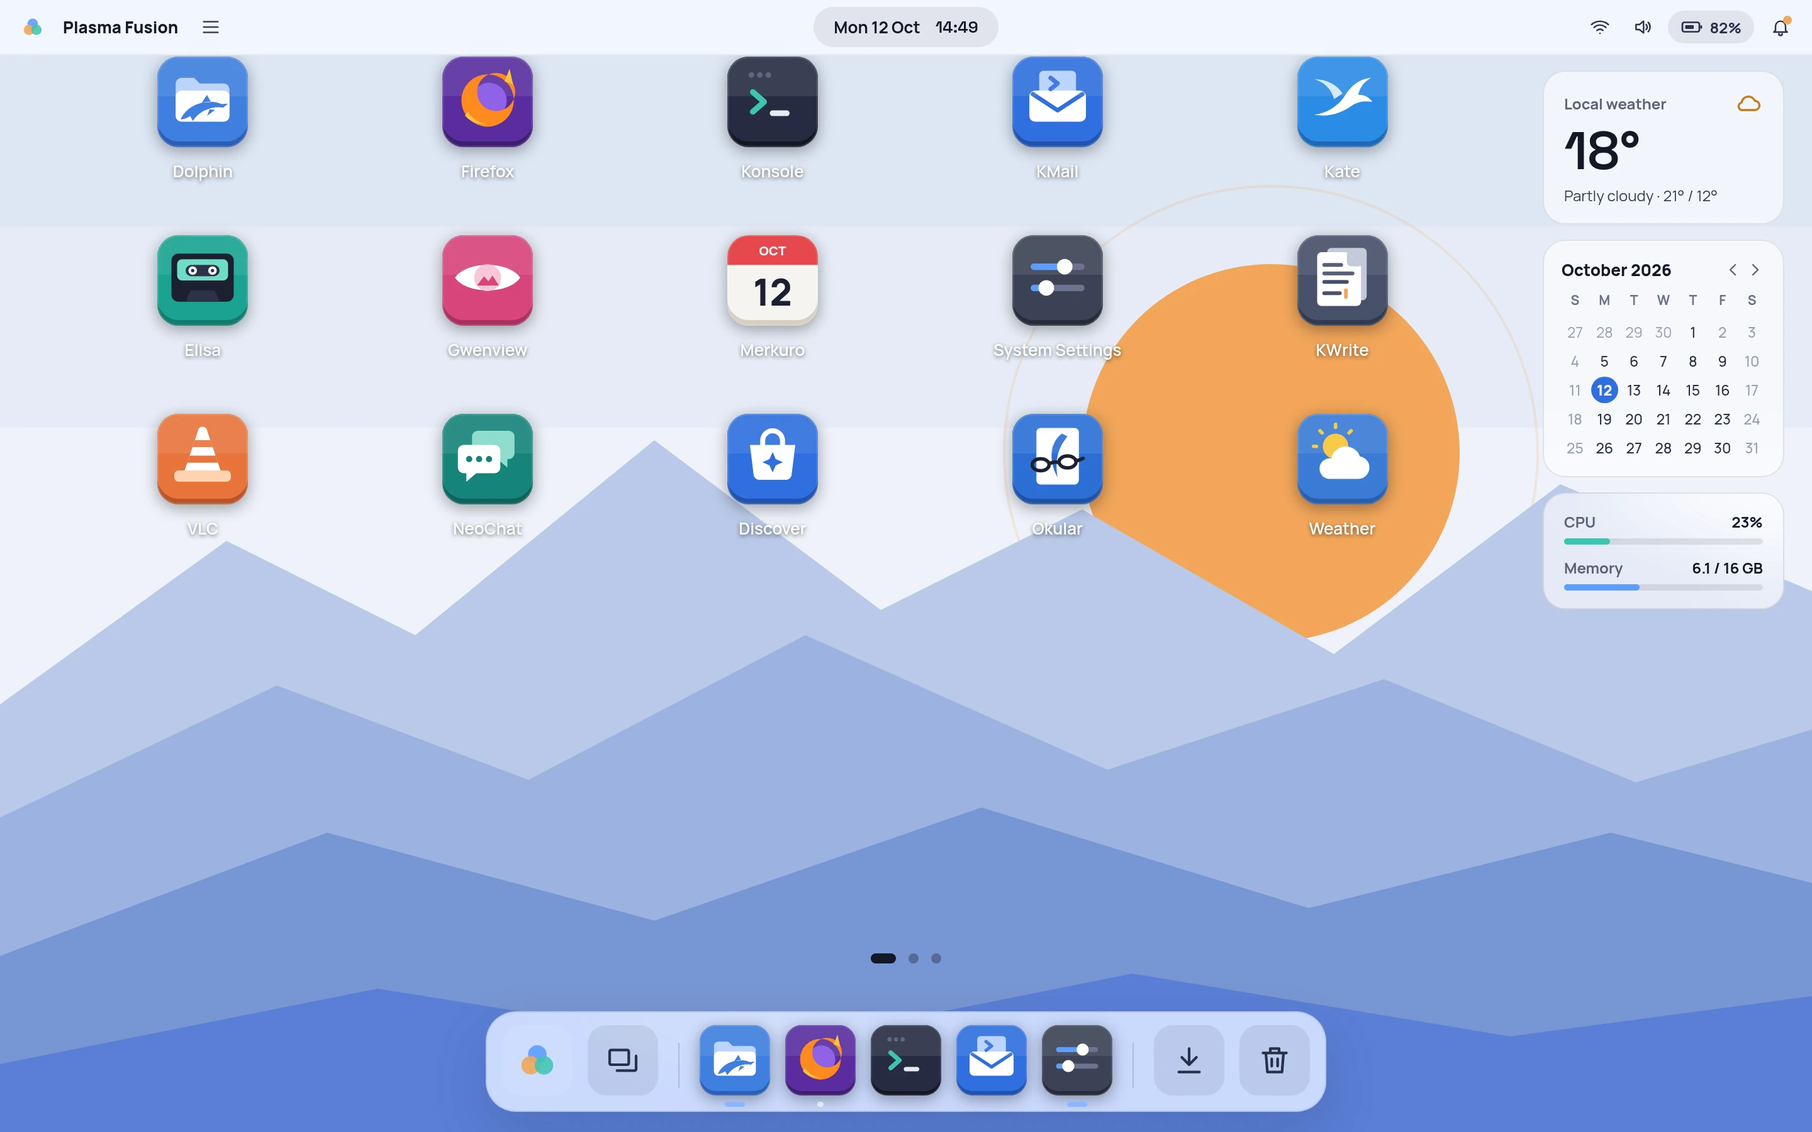
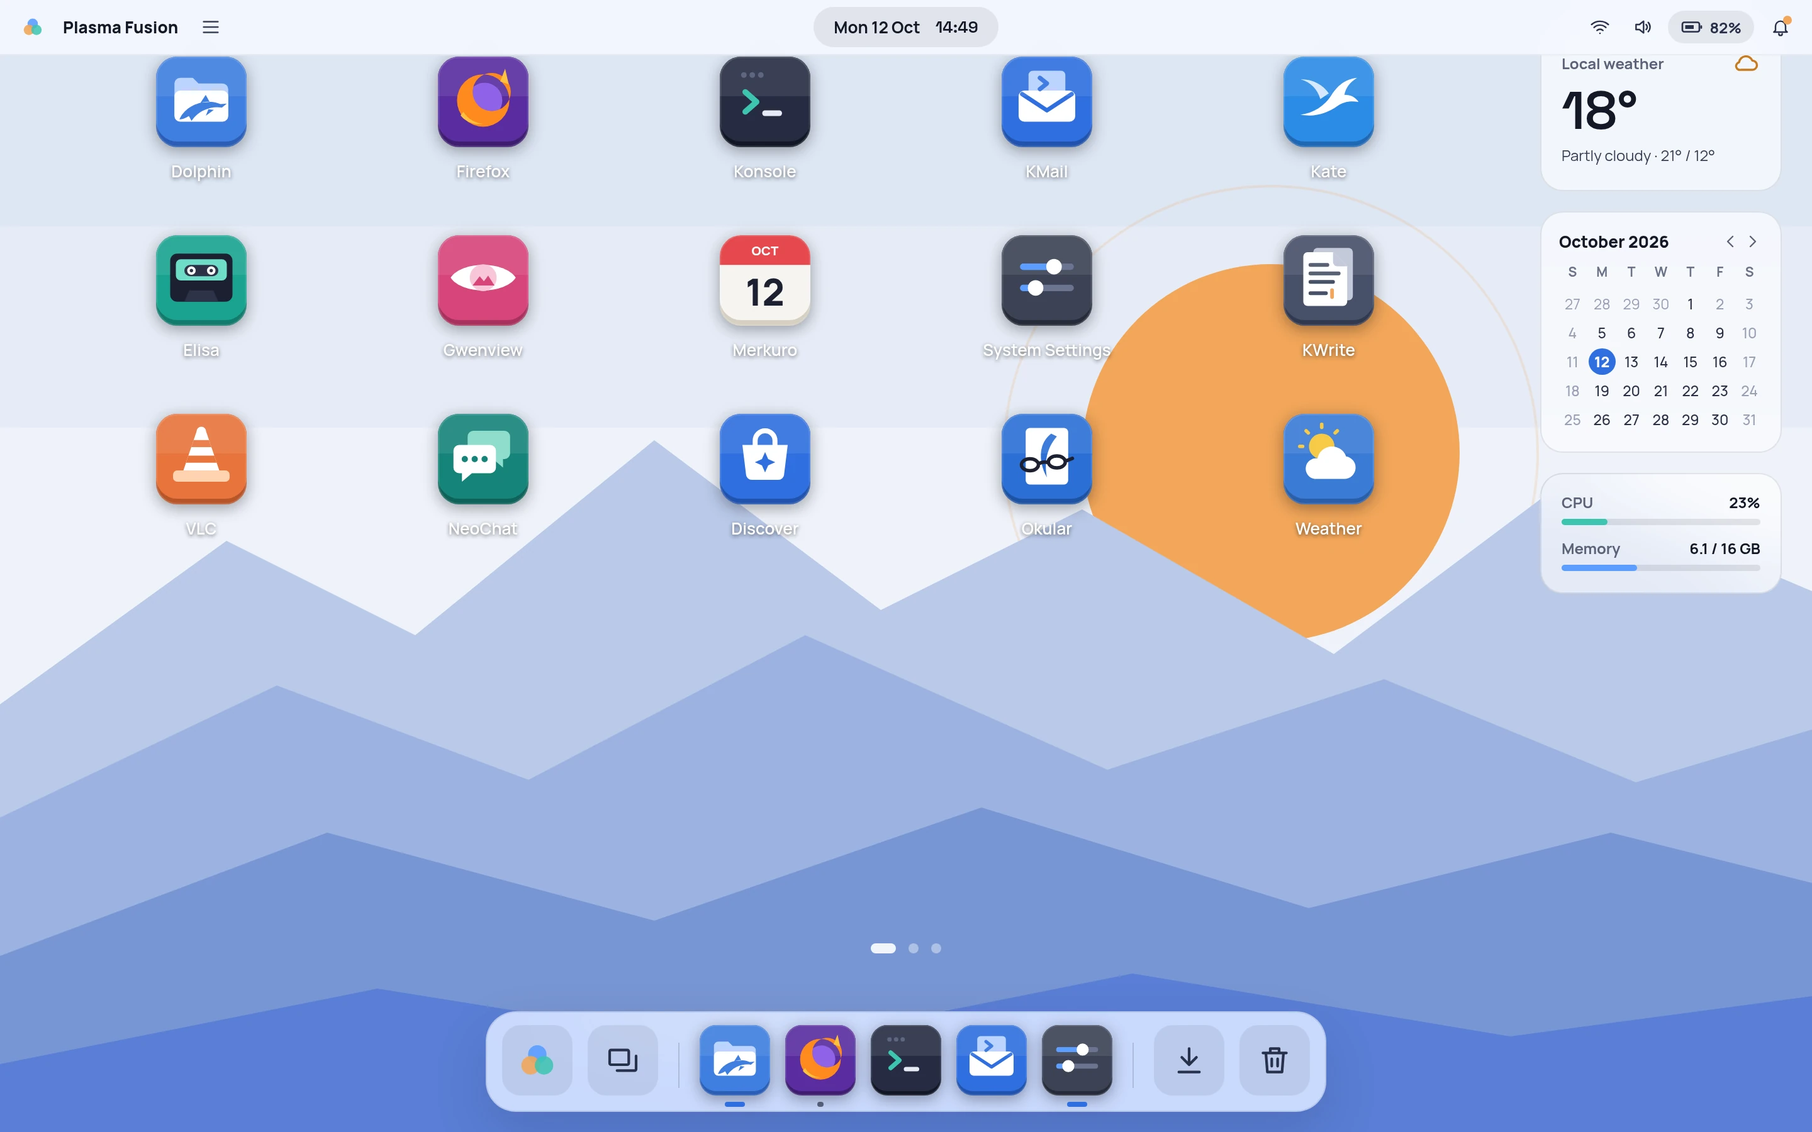
Design: the tablet home matches the implementation's grid, cards and palette
The page-1 grid is five runtime cells of floor((1440 - 96) / 6) = 224 px
(the boards' 1132 px drifted the tile centres right by up to 11 px); the
card column starts 24 px from the top and from the right edge with the
cards' 128 / 192 / 96 px containers 16 px apart (arrangeTabletCards);
the page dots sit at 750 - the 44 px targets centred at 754 - and stay
white at 90 / 40 % in both schemes (HomeLayer.qml); and the light board
uses the light DockPalette: the dark 8 % Start fill, ink running dots and
the #2f6fdf active pills.

Previews re-rendered with design/render/render.py.

diff --git a/design/boards/TabletLight.dc.html b/design/boards/TabletLight.dc.html
@@ -30,7 +30,7 @@ a{color:#2f6fdf}a:hover{color:#2359c4}
 </svg>
 
 <!-- Page 1: the pinned apps (the launcher's list), over the wallpaper -->
-<div aria-label="Home screen, page 1" style="position:absolute;left:48px;top:24px;width:1132px;display:grid;grid-template-columns:repeat(5, minmax(0, 1fr));grid-auto-rows:142px;justify-items:center">
+<div aria-label="Home screen, page 1" style="position:absolute;left:48px;top:24px;width:1120px;display:grid;grid-template-columns:repeat(5, minmax(0, 1fr));grid-auto-rows:142px;justify-items:center">
 
 <div style="display:flex;flex-direction:column;align-items:center;justify-content:center;gap:10px;height:100%">
 <button aria-label="Dolphin" class="tile" style="width:72px;height:72px;border-radius:19px"><svg xmlns="http://www.w3.org/2000/svg" width="72" height="72" viewBox="0 0 64 64"><path d="M15 0h34a15 15 0 0 1 15 15v34a15 15 0 0 1 -15 15h-34a15 15 0 0 1 -15 -15v-34a15 15 0 0 1 15 -15z" fill="#2b5db5"/><path d="M15 0h34a15 15 0 0 1 15 15v30a15 15 0 0 1 -15 15h-34a15 15 0 0 1 -15 -15v-30a15 15 0 0 1 15 -15z" fill="#3f7fe0"/><path d="M15 0h34a15 15 0 0 1 15 15v13H0V15A15 15 0 0 1 15 0z" fill="#ffffff" fill-opacity="0.09"/><path d="M13 19a4 4 0 0 1 4-4h9l4 4h17a4 4 0 0 1 4 4v19H13z" fill="#bcd4ff"/><path fill-rule="evenodd" d="M17 24h30a4 4 0 0 1 4 4v14a4 4 0 0 1 -4 4h-30a4 4 0 0 1 -4 -4v-14a4 4 0 0 1 4 -4z" fill="#ffffff"/><path fill-rule="evenodd" d="M16.5 44.5c3-7 10-11.5 18.5-12.5 4-.4 7.5.3 10.5 1.6l4.5-.4-3.4 2.8c-4.4-.7-9 0-13 2-3.6 1.8-6.5 4.4-8.5 7.4l-1.9-3.4c-2.4 1.5-4.6 2.3-6.7 2.5zM31.5 32.6l3.6-5.6 2.8 5.1zM37 37.2l-1.8 4.6 5.6-4.1z" fill="#3f7fe0"/><path d="M16.5 44.5c3-7 10-11.5 18.5-12.5 4-.4 7.5.3 10.5 1.6l4.5-.4-3.4 2.8c-4.4-.7-9 0-13 2-3.6 1.8-6.5 4.4-8.5 7.4l-1.9-3.4c-2.4 1.5-4.6 2.3-6.7 2.5zM31.5 32.6l3.6-5.6 2.8 5.1zM37 37.2l-1.8 4.6 5.6-4.1z" fill="url(#pf-sheen)" fill-rule="evenodd"/><path d="M15 0.5h34a14.5 14.5 0 0 1 14.5 14.5v34a14.5 14.5 0 0 1 -14.5 14.5h-34a14.5 14.5 0 0 1 -14.5 -14.5v-34a14.5 14.5 0 0 1 14.5 -14.5z" fill="none" stroke="#ffffff" stroke-opacity="0.14" stroke-width="1" stroke-linecap="butt" stroke-linejoin="miter"/></svg></button>
@@ -109,8 +109,8 @@ a{color:#2f6fdf}a:hover{color:#2359c4}
 
 </div>
 <!-- The cards on page 1 (the containment's widgets), in the columns the grid leaves -->
-<div style="position:absolute;left:1226px;top:56px;width:192px;display:flex;flex-direction:column;gap:12px">
-<div aria-label="Weather widget" style="box-sizing:border-box;padding:14px 16px;border-radius:18px;background:rgba(255,255,255,0.62);backdrop-filter:blur(24px);-webkit-backdrop-filter:blur(24px);border:1px solid rgba(20,24,39,0.1);display:flex;flex-direction:column;gap:6px">
+<div style="position:absolute;left:1224px;top:24px;width:192px;display:flex;flex-direction:column;gap:16px">
+<div aria-label="Weather widget" style="height:128px;box-sizing:border-box;padding:14px 16px;border-radius:18px;background:rgba(255,255,255,0.62);backdrop-filter:blur(24px);-webkit-backdrop-filter:blur(24px);border:1px solid rgba(20,24,39,0.1);display:flex;flex-direction:column;gap:6px">
 <div style="display:flex;align-items:center;justify-content:space-between">
 <span style="font-size:12px;font-weight:700;color:#5b6278">Local weather</span>
 <svg class="i" width="22" height="22" viewBox="0 0 24 24" style="color:#c77a1e"><path d="M7 18h10a4 4 0 0 0 0-8a6 6 0 0 0-11.5 1.5A3.3 3.3 0 0 0 7 18z"></path></svg>
@@ -119,7 +119,7 @@ a{color:#2f6fdf}a:hover{color:#2359c4}
 <div style="font-size:12px;color:#3a4157">Partly cloudy · 21° / 12°</div>
 </div>
 
-<div aria-label="Calendar widget" style="box-sizing:border-box;padding:14px 14px 12px;border-radius:18px;background:rgba(255,255,255,0.62);backdrop-filter:blur(24px);-webkit-backdrop-filter:blur(24px);border:1px solid rgba(20,24,39,0.1);display:flex;flex-direction:column;gap:8px">
+<div aria-label="Calendar widget" style="height:192px;box-sizing:border-box;padding:14px 14px 12px;border-radius:18px;background:rgba(255,255,255,0.62);backdrop-filter:blur(24px);-webkit-backdrop-filter:blur(24px);border:1px solid rgba(20,24,39,0.1);display:flex;flex-direction:column;gap:8px">
 <div style="display:flex;align-items:center;justify-content:space-between">
 <span style="font-size:13px;font-weight:800">October 2026</span>
 <div style="display:flex;gap:2px;color:#5b6278">
@@ -139,7 +139,7 @@ a{color:#2f6fdf}a:hover{color:#2359c4}
 </div>
 </div>
 
-<div aria-label="System monitor widget" style="box-sizing:border-box;padding:14px 16px;border-radius:18px;background:rgba(255,255,255,0.62);backdrop-filter:blur(24px);-webkit-backdrop-filter:blur(24px);border:1px solid rgba(20,24,39,0.1);display:flex;flex-direction:column;gap:10px">
+<div aria-label="System monitor widget" style="height:96px;box-sizing:border-box;padding:14px 16px;border-radius:18px;background:rgba(255,255,255,0.62);backdrop-filter:blur(24px);-webkit-backdrop-filter:blur(24px);border:1px solid rgba(20,24,39,0.1);display:flex;flex-direction:column;gap:10px">
 <div style="display:flex;flex-direction:column;gap:5px">
 <div style="display:flex;justify-content:space-between;font-size:12px"><span style="color:#5b6278;font-weight:700">CPU</span><span style="font-weight:700">23%</span></div>
 <div style="height:5px;border-radius:3px;background:rgba(20,24,39,0.1)"><div style="width:23%;height:5px;border-radius:3px;background:#3cc4b0"></div></div>
@@ -173,26 +173,26 @@ a{color:#2f6fdf}a:hover{color:#2359c4}
 </header>
 
 <!-- Page dots (page 1 of 3) -->
-<div aria-label="Page 1 of 3" style="position:absolute;left:50%;top:758px;transform:translateX(-50%);display:flex;align-items:center;gap:10px">
-<span style="width:20px;height:8px;border-radius:4px;background:#141827"></span>
-<span style="width:8px;height:8px;border-radius:4px;background:rgba(20,24,39,0.35)"></span>
-<span style="width:8px;height:8px;border-radius:4px;background:rgba(20,24,39,0.35)"></span>
+<div aria-label="Page 1 of 3" style="position:absolute;left:50%;top:750px;transform:translateX(-50%);display:flex;align-items:center;gap:10px">
+<span style="width:20px;height:8px;border-radius:4px;background:rgba(255,255,255,0.9)"></span>
+<span style="width:8px;height:8px;border-radius:4px;background:rgba(255,255,255,0.4)"></span>
+<span style="width:8px;height:8px;border-radius:4px;background:rgba(255,255,255,0.4)"></span>
 </div>
 
 <!-- Dock -->
 <nav aria-label="Dock" style="position:absolute;left:50%;bottom:16px;transform:translateX(-50%);display:flex;align-items:flex-end;gap:12px;padding:10px 12px 12px;border-radius:24px;background:rgba(255,255,255,0.7);backdrop-filter:blur(28px) saturate(1.4);-webkit-backdrop-filter:blur(28px) saturate(1.4);border:1px solid rgba(20,24,39,0.1);box-shadow:0 18px 44px rgba(20,24,39,0.14)">
-<button aria-label="Start" style="width:56px;height:56px;border-radius:15px;display:flex;align-items:center;justify-content:center;background:rgba(255,255,255,0.08)">
+<button aria-label="Start" style="width:56px;height:56px;border-radius:15px;display:flex;align-items:center;justify-content:center;background:rgba(20,24,39,0.08)">
 <svg width="32" height="32" viewBox="0 0 24 24" aria-hidden="true"><circle cx="12" cy="8.5" r="5.5" fill="#5b9dff" fill-opacity="0.9"></circle><circle cx="8" cy="15" r="5.5" fill="#f2a65a" fill-opacity="0.9"></circle><circle cx="16" cy="15" r="5.5" fill="#3cc4b0" fill-opacity="0.85"></circle></svg>
 </button>
 <button aria-label="Overview" style="width:56px;height:56px;border-radius:15px;display:flex;align-items:center;justify-content:center;background:rgba(20,24,39,0.08);color:#28304a"><svg class="i" width="28" height="28" viewBox="0 0 24 24"><path d="M4 5h11a1 1 0 0 1 1 1v8a1 1 0 0 1-1 1H4a1 1 0 0 1-1-1V6a1 1 0 0 1 1-1zM8 19h12a1 1 0 0 0 1-1V9"></path></svg></button>
 <span style="width:1px;height:36px;margin:0 4px 6px;background:rgba(20,24,39,0.16)"></span>
 <div style="position:relative;display:flex;flex-direction:column;align-items:center">
 <button aria-label="Dolphin" style="display:block;width:56px;height:56px;filter:drop-shadow(0 3px 6px rgba(0,0,0,0.35))"><svg xmlns="http://www.w3.org/2000/svg" width="56" height="56" viewBox="0 0 64 64"><defs><linearGradient id="pf-sheen" gradientUnits="userSpaceOnUse" x1="0" y1="0" x2="0" y2="64"><stop offset="0" stop-color="#ffffff" stop-opacity="0.09"/><stop offset="0.4375" stop-color="#ffffff" stop-opacity="0.09"/><stop offset="0.4375" stop-color="#ffffff" stop-opacity="0"/></linearGradient></defs><path d="M15 0h34a15 15 0 0 1 15 15v34a15 15 0 0 1 -15 15h-34a15 15 0 0 1 -15 -15v-34a15 15 0 0 1 15 -15z" fill="#2b5db5"/><path d="M15 0h34a15 15 0 0 1 15 15v30a15 15 0 0 1 -15 15h-34a15 15 0 0 1 -15 -15v-30a15 15 0 0 1 15 -15z" fill="#3f7fe0"/><path d="M15 0h34a15 15 0 0 1 15 15v13H0V15A15 15 0 0 1 15 0z" fill="#ffffff" fill-opacity="0.09"/><path d="M13 19a4 4 0 0 1 4-4h9l4 4h17a4 4 0 0 1 4 4v19H13z" fill="#bcd4ff"/><path fill-rule="evenodd" d="M17 24h30a4 4 0 0 1 4 4v14a4 4 0 0 1 -4 4h-30a4 4 0 0 1 -4 -4v-14a4 4 0 0 1 4 -4z" fill="#ffffff"/><path fill-rule="evenodd" d="M16.5 44.5c3-7 10-11.5 18.5-12.5 4-.4 7.5.3 10.5 1.6l4.5-.4-3.4 2.8c-4.4-.7-9 0-13 2-3.6 1.8-6.5 4.4-8.5 7.4l-1.9-3.4c-2.4 1.5-4.6 2.3-6.7 2.5zM31.5 32.6l3.6-5.6 2.8 5.1zM37 37.2l-1.8 4.6 5.6-4.1z" fill="#3f7fe0"/><path d="M16.5 44.5c3-7 10-11.5 18.5-12.5 4-.4 7.5.3 10.5 1.6l4.5-.4-3.4 2.8c-4.4-.7-9 0-13 2-3.6 1.8-6.5 4.4-8.5 7.4l-1.9-3.4c-2.4 1.5-4.6 2.3-6.7 2.5zM31.5 32.6l3.6-5.6 2.8 5.1zM37 37.2l-1.8 4.6 5.6-4.1z" fill="url(#pf-sheen)" fill-rule="evenodd"/><path d="M15 0.5h34a14.5 14.5 0 0 1 14.5 14.5v34a14.5 14.5 0 0 1 -14.5 14.5h-34a14.5 14.5 0 0 1 -14.5 -14.5v-34a14.5 14.5 0 0 1 14.5 -14.5z" fill="none" stroke="#ffffff" stroke-opacity="0.14" stroke-width="1" stroke-linecap="butt" stroke-linejoin="miter"/></svg></button>
-<span style="position:absolute;bottom:-9px;height:4px;border-radius:2px;width:16px;background:#8ab8ff"></span>
+<span style="position:absolute;bottom:-9px;height:4px;border-radius:2px;width:16px;background:#2f6fdf"></span>
 </div>
 <div style="position:relative;display:flex;flex-direction:column;align-items:center">
 <button aria-label="Firefox" style="display:block;width:56px;height:56px;filter:drop-shadow(0 3px 6px rgba(0,0,0,0.35))"><svg xmlns="http://www.w3.org/2000/svg" width="56" height="56" viewBox="0 0 64 64"><path d="M15 0h34a15 15 0 0 1 15 15v34a15 15 0 0 1 -15 15h-34a15 15 0 0 1 -15 -15v-34a15 15 0 0 1 15 -15z" fill="#3e1e70"/><path d="M15 0h34a15 15 0 0 1 15 15v30a15 15 0 0 1 -15 15h-34a15 15 0 0 1 -15 -15v-30a15 15 0 0 1 15 -15z" fill="#5a2ca0"/><path d="M15 0h34a15 15 0 0 1 15 15v13H0V15A15 15 0 0 1 15 0z" fill="#ffffff" fill-opacity="0.09"/><path d="M20.5 31a12.5 12.5 0 1 0 25 0a12.5 12.5 0 1 0 -25 0z" fill="#8f63e8"/><path fill-rule="evenodd" d="M13.5 31a18.5 18.5 0 1 0 37 0a18.5 18.5 0 1 0 -37 0zM24.5 25a13.5 13.5 0 1 0 27 0a13.5 13.5 0 1 0 -27 0z" fill="#ff8a1f"/><path fill-rule="evenodd" d="M44 17.5l3.5-9 2.5 11zM18 39c3 5 8 8 14 8.5-7 1-13-2-16-6z" fill="#ffc23d"/><path d="M15 0.5h34a14.5 14.5 0 0 1 14.5 14.5v34a14.5 14.5 0 0 1 -14.5 14.5h-34a14.5 14.5 0 0 1 -14.5 -14.5v-34a14.5 14.5 0 0 1 14.5 -14.5z" fill="none" stroke="#ffffff" stroke-opacity="0.14" stroke-width="1" stroke-linecap="butt" stroke-linejoin="miter"/></svg></button>
-<span style="position:absolute;bottom:-9px;height:4px;border-radius:2px;width:5px;background:rgba(255,255,255,0.6)"></span>
+<span style="position:absolute;bottom:-9px;height:4px;border-radius:2px;width:5px;background:rgba(20,24,39,0.6)"></span>
 </div>
 <div style="position:relative;display:flex;flex-direction:column;align-items:center">
 <button aria-label="Konsole" style="display:block;width:56px;height:56px;filter:drop-shadow(0 3px 6px rgba(0,0,0,0.35))"><svg xmlns="http://www.w3.org/2000/svg" width="56" height="56" viewBox="0 0 64 64"><path d="M15 0h34a15 15 0 0 1 15 15v34a15 15 0 0 1 -15 15h-34a15 15 0 0 1 -15 -15v-34a15 15 0 0 1 15 -15z" fill="#131726"/><path d="M15 0h34a15 15 0 0 1 15 15v30a15 15 0 0 1 -15 15h-34a15 15 0 0 1 -15 -15v-30a15 15 0 0 1 15 -15z" fill="#262c42"/><path d="M15 0h34a15 15 0 0 1 15 15v13H0V15A15 15 0 0 1 15 0z" fill="#ffffff" fill-opacity="0.09"/><path d="M32 38h10a2 2 0 0 1 2 2v0a2 2 0 0 1 -2 2h-10a2 2 0 0 1 -2 -2v0a2 2 0 0 1 2 -2z" fill="#e8ebf4"/><path fill-rule="evenodd" d="M15 13a2 2 0 1 0 4 0a2 2 0 1 0 -4 0zM21 13a2 2 0 1 0 4 0a2 2 0 1 0 -4 0zM27 13a2 2 0 1 0 4 0a2 2 0 1 0 -4 0z" fill="#5d6680"/><path d="M18 25l8 7-8 7" fill="none" stroke="#3cc4b0" stroke-width="4" stroke-linecap="round" stroke-linejoin="round"/><path d="M15 0.5h34a14.5 14.5 0 0 1 14.5 14.5v34a14.5 14.5 0 0 1 -14.5 14.5h-34a14.5 14.5 0 0 1 -14.5 -14.5v-34a14.5 14.5 0 0 1 14.5 -14.5z" fill="none" stroke="#ffffff" stroke-opacity="0.14" stroke-width="1" stroke-linecap="butt" stroke-linejoin="miter"/></svg></button>
@@ -202,7 +202,7 @@ a{color:#2f6fdf}a:hover{color:#2359c4}
 </div>
 <div style="position:relative;display:flex;flex-direction:column;align-items:center">
 <button aria-label="System Settings" style="display:block;width:56px;height:56px;filter:drop-shadow(0 3px 6px rgba(0,0,0,0.35))"><svg xmlns="http://www.w3.org/2000/svg" width="56" height="56" viewBox="0 0 64 64"><path d="M15 0h34a15 15 0 0 1 15 15v34a15 15 0 0 1 -15 15h-34a15 15 0 0 1 -15 -15v-34a15 15 0 0 1 15 -15z" fill="#262b38"/><path d="M15 0h34a15 15 0 0 1 15 15v30a15 15 0 0 1 -15 15h-34a15 15 0 0 1 -15 -15v-30a15 15 0 0 1 15 -15z" fill="#3b4255"/><path d="M15 0h34a15 15 0 0 1 15 15v13H0V15A15 15 0 0 1 15 0z" fill="#ffffff" fill-opacity="0.09"/><path d="M15.25 20h33.5a2.25 2.25 0 0 1 2.25 2.25v0a2.25 2.25 0 0 1 -2.25 2.25h-33.5a2.25 2.25 0 0 1 -2.25 -2.25v0a2.25 2.25 0 0 1 2.25 -2.25zM15.25 35h33.5a2.25 2.25 0 0 1 2.25 2.25v0a2.25 2.25 0 0 1 -2.25 2.25h-33.5a2.25 2.25 0 0 1 -2.25 -2.25v0a2.25 2.25 0 0 1 2.25 -2.25z" fill="#6b7490"/><path fill-rule="evenodd" d="M15.25 20h19.5a2.25 2.25 0 0 1 2.25 2.25v0a2.25 2.25 0 0 1 -2.25 2.25h-19.5a2.25 2.25 0 0 1 -2.25 -2.25v0a2.25 2.25 0 0 1 2.25 -2.25zM15.25 35h6.5a2.25 2.25 0 0 1 2.25 2.25v0a2.25 2.25 0 0 1 -2.25 2.25h-6.5a2.25 2.25 0 0 1 -2.25 -2.25v0a2.25 2.25 0 0 1 2.25 -2.25z" fill="#5b9dff"/><path fill-rule="evenodd" d="M31.5 22.25a5.5 5.5 0 1 0 11 0a5.5 5.5 0 1 0 -11 0zM18.5 37.25a5.5 5.5 0 1 0 11 0a5.5 5.5 0 1 0 -11 0z" fill="#ffffff"/><path d="M15 0.5h34a14.5 14.5 0 0 1 14.5 14.5v34a14.5 14.5 0 0 1 -14.5 14.5h-34a14.5 14.5 0 0 1 -14.5 -14.5v-34a14.5 14.5 0 0 1 14.5 -14.5z" fill="none" stroke="#ffffff" stroke-opacity="0.14" stroke-width="1" stroke-linecap="butt" stroke-linejoin="miter"/></svg></button>
-<span style="position:absolute;bottom:-9px;height:4px;border-radius:2px;width:16px;background:#8ab8ff"></span>
+<span style="position:absolute;bottom:-9px;height:4px;border-radius:2px;width:16px;background:#2f6fdf"></span>
 </div>
 <span style="width:1px;height:36px;margin:0 4px 6px;background:rgba(20,24,39,0.16)"></span>
 <button aria-label="Downloads" style="width:56px;height:56px;border-radius:15px;background:rgba(20,24,39,0.08);color:#28304a;display:flex;align-items:center;justify-content:center"><svg class="i" width="28" height="28" viewBox="0 0 24 24"><path d="M12 4v11M7 10l5 5 5-5M5 20h14"></path></svg></button>

diff --git a/design/boards/Tablet.dc.html b/design/boards/Tablet.dc.html
@@ -30,7 +30,7 @@ a{color:#8ab8ff}a:hover{color:#b9d4ff}
 </svg>
 
 <!-- Page 1: the pinned apps (the launcher's list), over the wallpaper -->
-<div aria-label="Home screen, page 1" style="position:absolute;left:48px;top:24px;width:1132px;display:grid;grid-template-columns:repeat(5, minmax(0, 1fr));grid-auto-rows:142px;justify-items:center">
+<div aria-label="Home screen, page 1" style="position:absolute;left:48px;top:24px;width:1120px;display:grid;grid-template-columns:repeat(5, minmax(0, 1fr));grid-auto-rows:142px;justify-items:center">
 
 <div style="display:flex;flex-direction:column;align-items:center;justify-content:center;gap:10px;height:100%">
 <button aria-label="Dolphin" class="tile" style="width:72px;height:72px;border-radius:19px"><svg xmlns="http://www.w3.org/2000/svg" width="72" height="72" viewBox="0 0 64 64"><path d="M15 0h34a15 15 0 0 1 15 15v34a15 15 0 0 1 -15 15h-34a15 15 0 0 1 -15 -15v-34a15 15 0 0 1 15 -15z" fill="#2b5db5"/><path d="M15 0h34a15 15 0 0 1 15 15v30a15 15 0 0 1 -15 15h-34a15 15 0 0 1 -15 -15v-30a15 15 0 0 1 15 -15z" fill="#3f7fe0"/><path d="M15 0h34a15 15 0 0 1 15 15v13H0V15A15 15 0 0 1 15 0z" fill="#ffffff" fill-opacity="0.09"/><path d="M13 19a4 4 0 0 1 4-4h9l4 4h17a4 4 0 0 1 4 4v19H13z" fill="#bcd4ff"/><path fill-rule="evenodd" d="M17 24h30a4 4 0 0 1 4 4v14a4 4 0 0 1 -4 4h-30a4 4 0 0 1 -4 -4v-14a4 4 0 0 1 4 -4z" fill="#ffffff"/><path fill-rule="evenodd" d="M16.5 44.5c3-7 10-11.5 18.5-12.5 4-.4 7.5.3 10.5 1.6l4.5-.4-3.4 2.8c-4.4-.7-9 0-13 2-3.6 1.8-6.5 4.4-8.5 7.4l-1.9-3.4c-2.4 1.5-4.6 2.3-6.7 2.5zM31.5 32.6l3.6-5.6 2.8 5.1zM37 37.2l-1.8 4.6 5.6-4.1z" fill="#3f7fe0"/><path d="M16.5 44.5c3-7 10-11.5 18.5-12.5 4-.4 7.5.3 10.5 1.6l4.5-.4-3.4 2.8c-4.4-.7-9 0-13 2-3.6 1.8-6.5 4.4-8.5 7.4l-1.9-3.4c-2.4 1.5-4.6 2.3-6.7 2.5zM31.5 32.6l3.6-5.6 2.8 5.1zM37 37.2l-1.8 4.6 5.6-4.1z" fill="url(#pf-sheen)" fill-rule="evenodd"/><path d="M15 0.5h34a14.5 14.5 0 0 1 14.5 14.5v34a14.5 14.5 0 0 1 -14.5 14.5h-34a14.5 14.5 0 0 1 -14.5 -14.5v-34a14.5 14.5 0 0 1 14.5 -14.5z" fill="none" stroke="#ffffff" stroke-opacity="0.14" stroke-width="1" stroke-linecap="butt" stroke-linejoin="miter"/></svg></button>
@@ -109,8 +109,8 @@ a{color:#8ab8ff}a:hover{color:#b9d4ff}
 
 </div>
 <!-- The cards on page 1 (the containment's widgets), in the columns the grid leaves -->
-<div style="position:absolute;left:1226px;top:56px;width:192px;display:flex;flex-direction:column;gap:12px">
-<div aria-label="Weather widget" style="box-sizing:border-box;padding:14px 16px;border-radius:18px;background:rgba(14,18,34,0.52);backdrop-filter:blur(24px);-webkit-backdrop-filter:blur(24px);border:1px solid rgba(255,255,255,0.1);display:flex;flex-direction:column;gap:6px">
+<div style="position:absolute;left:1224px;top:24px;width:192px;display:flex;flex-direction:column;gap:16px">
+<div aria-label="Weather widget" style="height:128px;box-sizing:border-box;padding:14px 16px;border-radius:18px;background:rgba(14,18,34,0.52);backdrop-filter:blur(24px);-webkit-backdrop-filter:blur(24px);border:1px solid rgba(255,255,255,0.1);display:flex;flex-direction:column;gap:6px">
 <div style="display:flex;align-items:center;justify-content:space-between">
 <span style="font-size:12px;font-weight:700;color:#a3abc2">Local weather</span>
 <svg class="i" width="22" height="22" viewBox="0 0 24 24" style="color:#f2c38a"><path d="M7 18h10a4 4 0 0 0 0-8a6 6 0 0 0-11.5 1.5A3.3 3.3 0 0 0 7 18z"></path></svg>
@@ -119,7 +119,7 @@ a{color:#8ab8ff}a:hover{color:#b9d4ff}
 <div style="font-size:12px;color:#cdd3e4">Partly cloudy · 21° / 12°</div>
 </div>
 
-<div aria-label="Calendar widget" style="box-sizing:border-box;padding:14px 14px 12px;border-radius:18px;background:rgba(14,18,34,0.52);backdrop-filter:blur(24px);-webkit-backdrop-filter:blur(24px);border:1px solid rgba(255,255,255,0.1);display:flex;flex-direction:column;gap:8px">
+<div aria-label="Calendar widget" style="height:192px;box-sizing:border-box;padding:14px 14px 12px;border-radius:18px;background:rgba(14,18,34,0.52);backdrop-filter:blur(24px);-webkit-backdrop-filter:blur(24px);border:1px solid rgba(255,255,255,0.1);display:flex;flex-direction:column;gap:8px">
 <div style="display:flex;align-items:center;justify-content:space-between">
 <span style="font-size:13px;font-weight:800">October 2026</span>
 <div style="display:flex;gap:2px;color:#a3abc2">
@@ -139,7 +139,7 @@ a{color:#8ab8ff}a:hover{color:#b9d4ff}
 </div>
 </div>
 
-<div aria-label="System monitor widget" style="box-sizing:border-box;padding:14px 16px;border-radius:18px;background:rgba(14,18,34,0.52);backdrop-filter:blur(24px);-webkit-backdrop-filter:blur(24px);border:1px solid rgba(255,255,255,0.1);display:flex;flex-direction:column;gap:10px">
+<div aria-label="System monitor widget" style="height:96px;box-sizing:border-box;padding:14px 16px;border-radius:18px;background:rgba(14,18,34,0.52);backdrop-filter:blur(24px);-webkit-backdrop-filter:blur(24px);border:1px solid rgba(255,255,255,0.1);display:flex;flex-direction:column;gap:10px">
 <div style="display:flex;flex-direction:column;gap:5px">
 <div style="display:flex;justify-content:space-between;font-size:12px"><span style="color:#a3abc2;font-weight:700">CPU</span><span style="font-weight:700">23%</span></div>
 <div style="height:5px;border-radius:3px;background:rgba(255,255,255,0.1)"><div style="width:23%;height:5px;border-radius:3px;background:#3cc4b0"></div></div>
@@ -173,8 +173,8 @@ a{color:#8ab8ff}a:hover{color:#b9d4ff}
 </header>
 
 <!-- Page dots (page 1 of 3) -->
-<div aria-label="Page 1 of 3" style="position:absolute;left:50%;top:758px;transform:translateX(-50%);display:flex;align-items:center;gap:10px">
-<span style="width:20px;height:8px;border-radius:4px;background:#e8ebf4"></span>
+<div aria-label="Page 1 of 3" style="position:absolute;left:50%;top:750px;transform:translateX(-50%);display:flex;align-items:center;gap:10px">
+<span style="width:20px;height:8px;border-radius:4px;background:rgba(255,255,255,0.9)"></span>
 <span style="width:8px;height:8px;border-radius:4px;background:rgba(255,255,255,0.4)"></span>
 <span style="width:8px;height:8px;border-radius:4px;background:rgba(255,255,255,0.4)"></span>
 </div>
